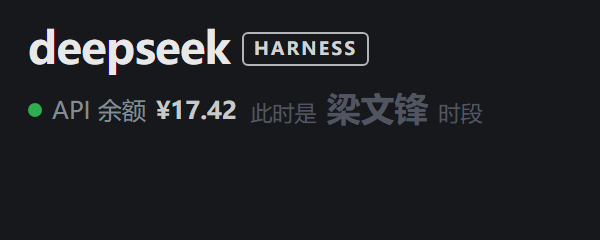
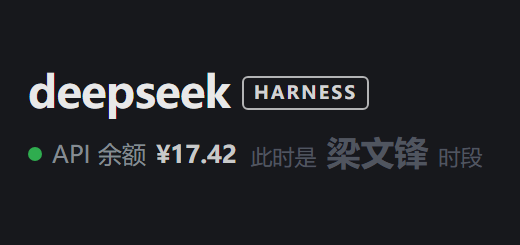
docs(assets): 截图按侧栏宽度渲染并裁掉空白（520x245）

Changed region(s): [[0.0308, 0.1167, 0.8, 0.525], [0.0308, 0.5542, 0.9231, 0.7]]

diff --git a/assets/preview.html b/assets/preview.html
@@ -1,10 +1,13 @@
 <!doctype html>
 <!-- Screenshot generator for README / plugin market. No real account data:
-     the balance and the period text are fixed fixtures. Render with:
+     the balance and the period text are fixed fixtures. Render at exactly the
+     sidebar width (260 CSS px), then crop the empty bottom rows with 36 CSS px
+     of padding on the background colour (#17181c), so no dead space remains:
      msedge --headless=new --disable-gpu --hide-scrollbars \
-       --force-device-scale-factor=2 --window-size=300,120 \
-       --screenshot=assets/screenshot-valley.png \
+       --force-device-scale-factor=2 --window-size=260,200 \
+       --screenshot=assets/_raw-valley.png \
        "file:///.../assets/preview.html?state=valley"
+     (then trim to 520x245 device px; see AGENTS.md「验证」)
 -->
 <html lang="zh-CN">
 <head>

diff --git a/AGENTS.md b/AGENTS.md
@@ -52,8 +52,10 @@
 - Host 半区（真实导入 + mock ctx：路由形状、405、栅栏 401/403、缺 credentials 分支）：`node scripts/verify-host.js`
 - 端点（桌面端运行中）：`curl http://127.0.0.1:<DSH Web 端口>/api/deepseek-balance-simple`
 - 截图（不含真实账户信息，余额固定 `¥17.42`）：`assets/preview.html?state=valley|peak` 用 Edge headless
-  （`--headless=new --disable-gpu --hide-scrollbars --force-device-scale-factor=2 --window-size=300,120`）
-  渲染到 `assets/screenshot-valley.png` / `screenshot-peak.png`；图标 `assets/icon-preview.html` → `assets/icon.png`
+  （`--headless=new --disable-gpu --hide-scrollbars --force-device-scale-factor=2 --window-size=260,200`，
+  宽度等于侧栏 260px，避免右侧空白）渲染成临时 raw，再把底部空行裁掉、四周留 36 CSS px 底色（`#17181c`），
+  输出固定 520×245 的 `assets/screenshot-valley.png` / `screenshot-peak.png`（裁剪脚本见 `preview.html` 注释）；
+  图标 `assets/icon-preview.html` → `assets/icon.png`（512 CSS px ×2 = 1024×1024）
 - 市场截图约定：仓库根 `screenshots.json` 是 awesome-dsh-plugin 的「作者自声明截图」文件（1-8 张、必须是
   GitHub 图床的 https URL），比 catalog 的 `data/screenshots.json` 优先；README 里的 `assets/*.png` 则用于
   市场安装弹窗的自动抽取
